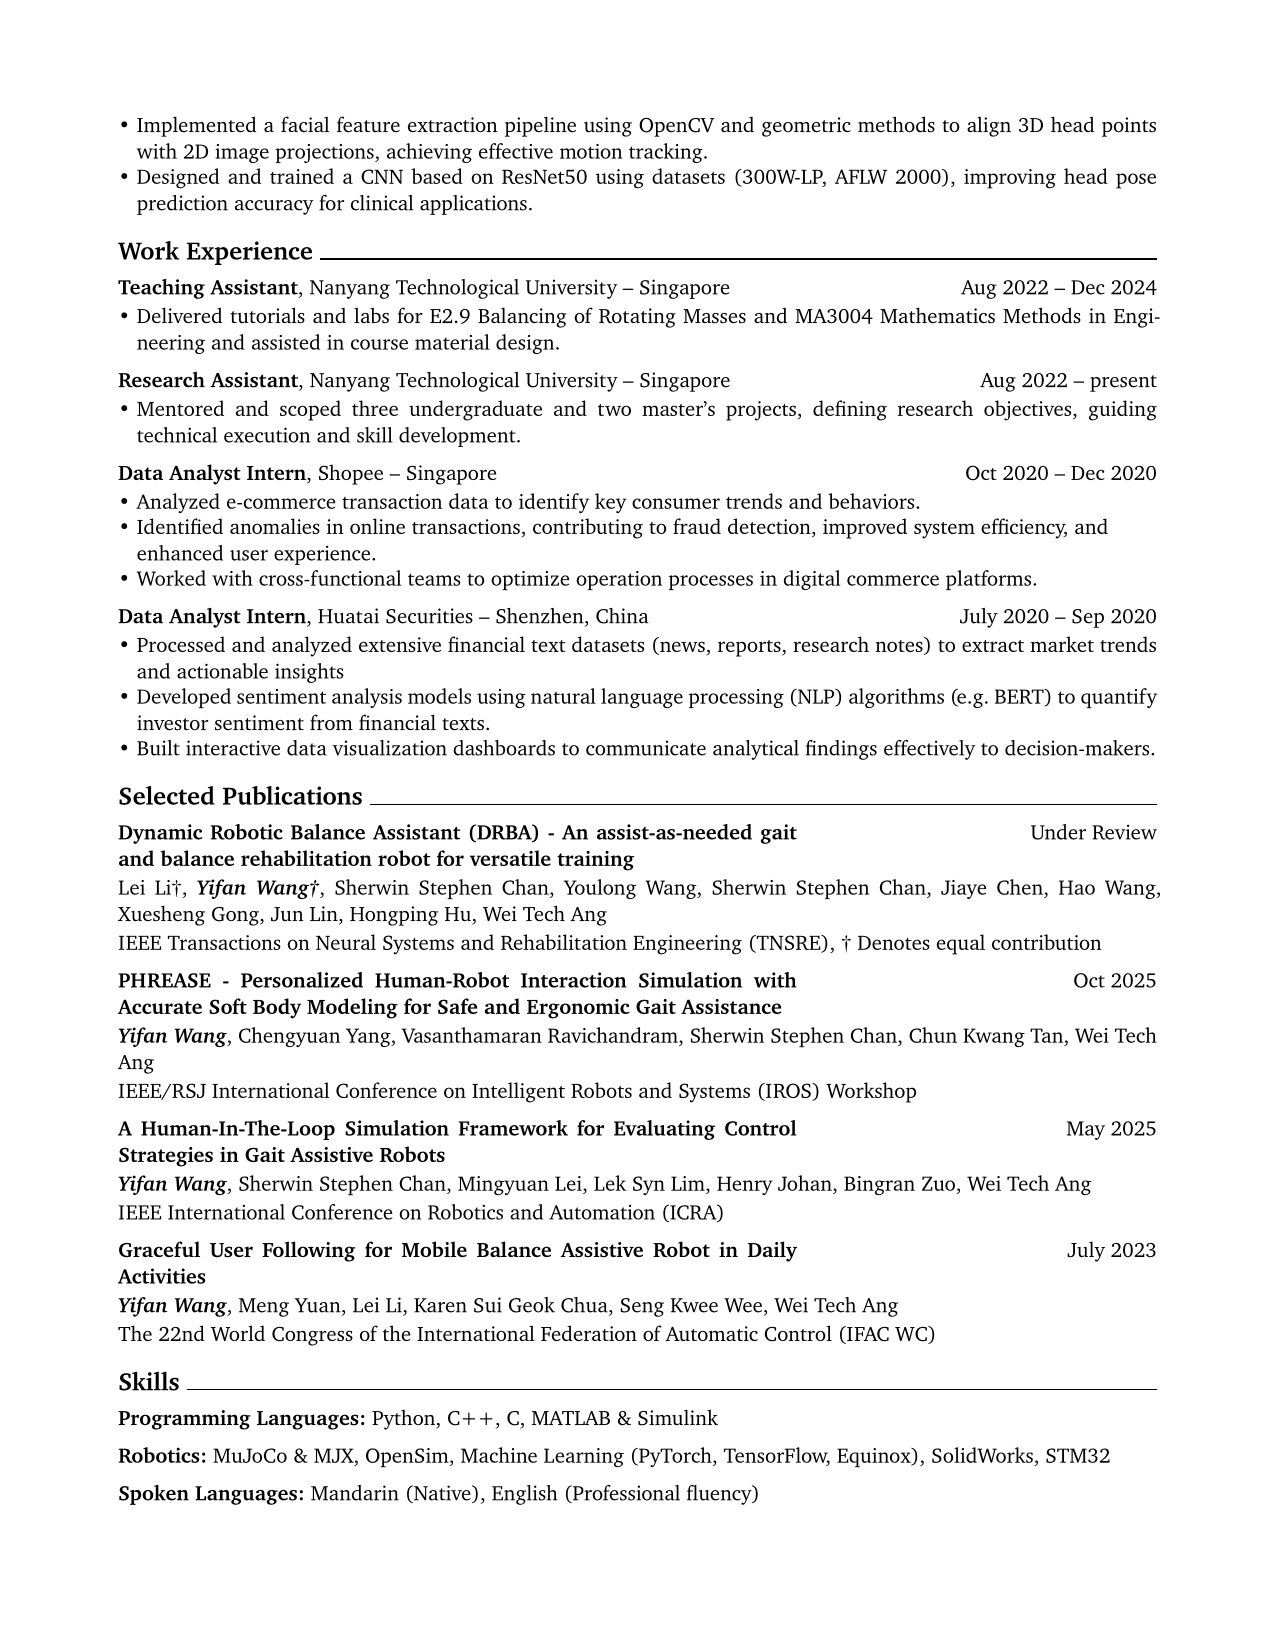
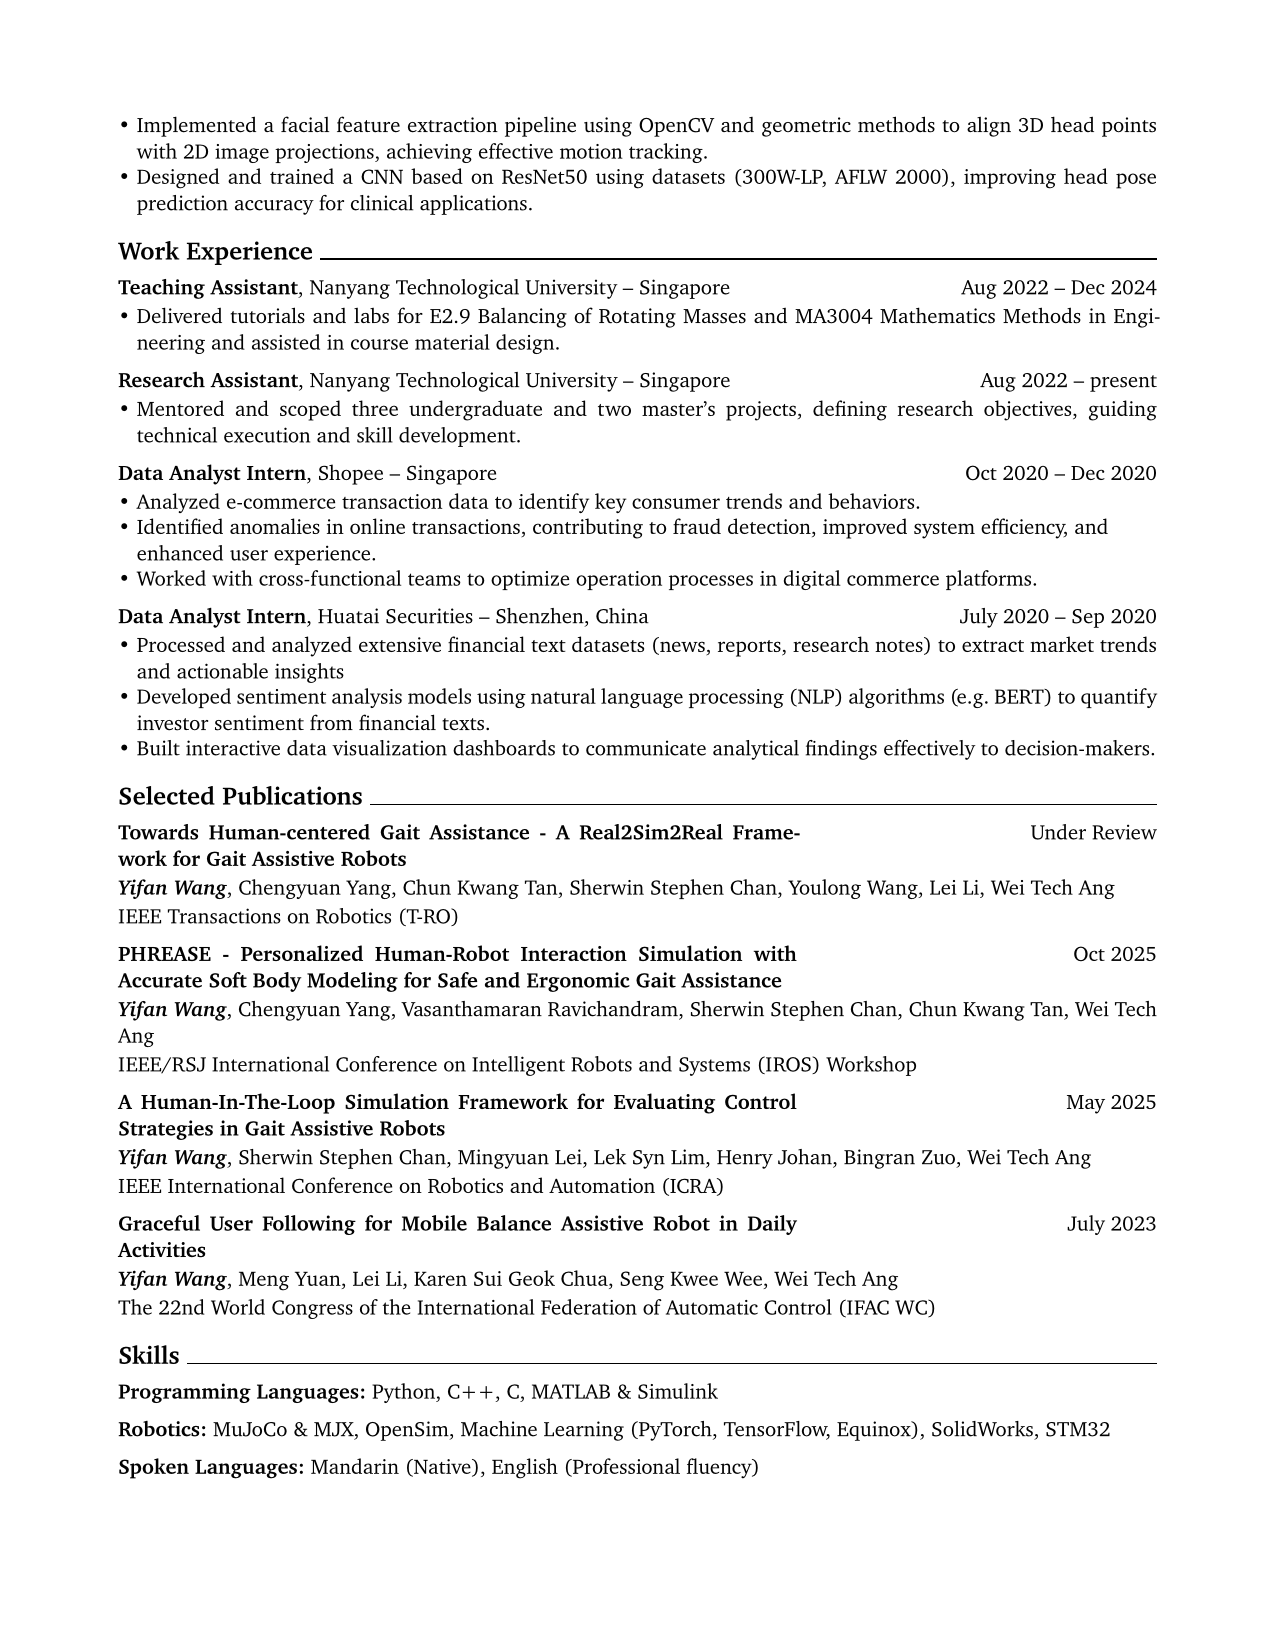
update cv publications

Changed region(s): [[0.0918, 0.4945, 0.9176, 0.9273]]

diff --git a/assets/cv/rendercv_output/Wang_Yifan_CV.html b/assets/cv/rendercv_output/Wang_Yifan_CV.html
@@ -128,11 +128,11 @@
         <li>Built interactive data visualization dashboards to communicate analytical findings effectively to decision-makers.</li>
         </ul>
         <h1>Selected Publications</h1>
-        <h2>Dynamic Robotic Balance Assistant (DRBA) - An assist-as-needed gait and balance rehabilitation robot for versatile training</h2>
+        <h2>Towards Human-centered Gait Assistance - A Real2Sim2Real Framework for Gait Assistive Robots</h2>
         <ul>
         <li>Under Review</li>
-        <li>Lei Li†, <strong><em>Yifan Wang†</em></strong>, Sherwin Stephen Chan, Youlong Wang, Sherwin Stephen Chan, Jiaye Chen, Hao Wang, Xuesheng Gong, Jun Lin, Hongping Hu, Wei Tech Ang</li>
-        <li>IEEE Transactions on Neural Systems and Rehabilitation Engineering (TNSRE), † Denotes equal contribution</li>
+        <li><strong><em>Yifan Wang</em></strong>, Chengyuan Yang, Chun Kwang Tan, Sherwin Stephen Chan, Youlong Wang, Lei Li, Wei Tech Ang</li>
+        <li>IEEE Transactions on Robotics (T-RO)</li>
         </ul>
         <h2>PHREASE - Personalized Human-Robot Interaction Simulation with Accurate Soft Body Modeling for Safe and Ergonomic Gait Assistance</h2>
         <ul>

diff --git a/assets/cv/rendercv_output/Wang_Yifan_CV.md b/assets/cv/rendercv_output/Wang_Yifan_CV.md
@@ -94,10 +94,10 @@ Final-year Ph.D. candidate at NTU specializing in assistive robotics. My researc
 
 # Selected Publications
 
-## Dynamic Robotic Balance Assistant (DRBA) - An assist-as-needed gait and balance rehabilitation robot for versatile training 
+## Towards Human-centered Gait Assistance - A Real2Sim2Real Framework for Gait Assistive Robots 
 - Under Review
-- Lei Li†, ***Yifan Wang†***, Sherwin Stephen Chan, Youlong Wang, Sherwin Stephen Chan, Jiaye Chen, Hao Wang, Xuesheng Gong, Jun Lin, Hongping Hu, Wei Tech Ang
-- IEEE Transactions on Neural Systems and Rehabilitation Engineering (TNSRE), † Denotes equal contribution
+- ***Yifan Wang***, Chengyuan Yang, Chun Kwang Tan, Sherwin Stephen Chan, Youlong Wang, Lei Li, Wei Tech Ang
+- IEEE Transactions on Robotics (T-RO)
 
 ## PHREASE - Personalized Human-Robot Interaction Simulation with Accurate Soft Body Modeling for Safe and Ergonomic Gait Assistance 
 - Oct 2025
